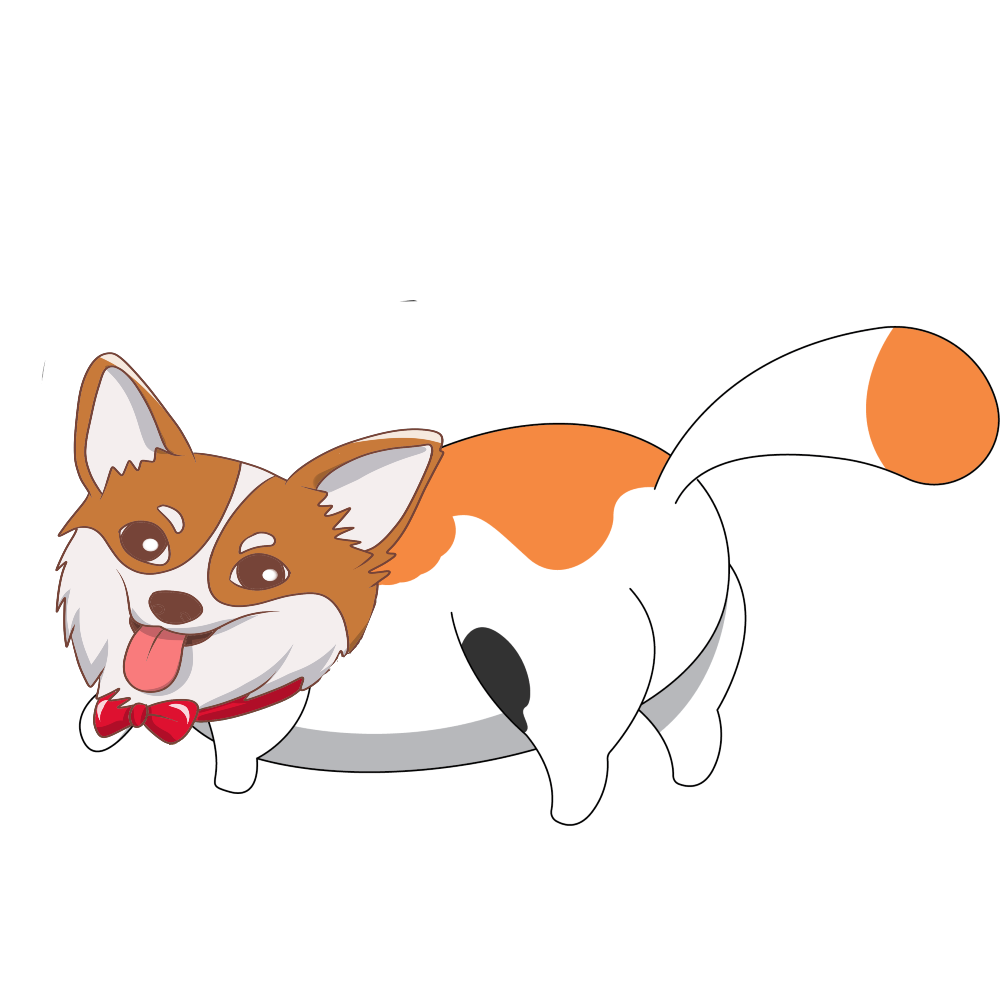
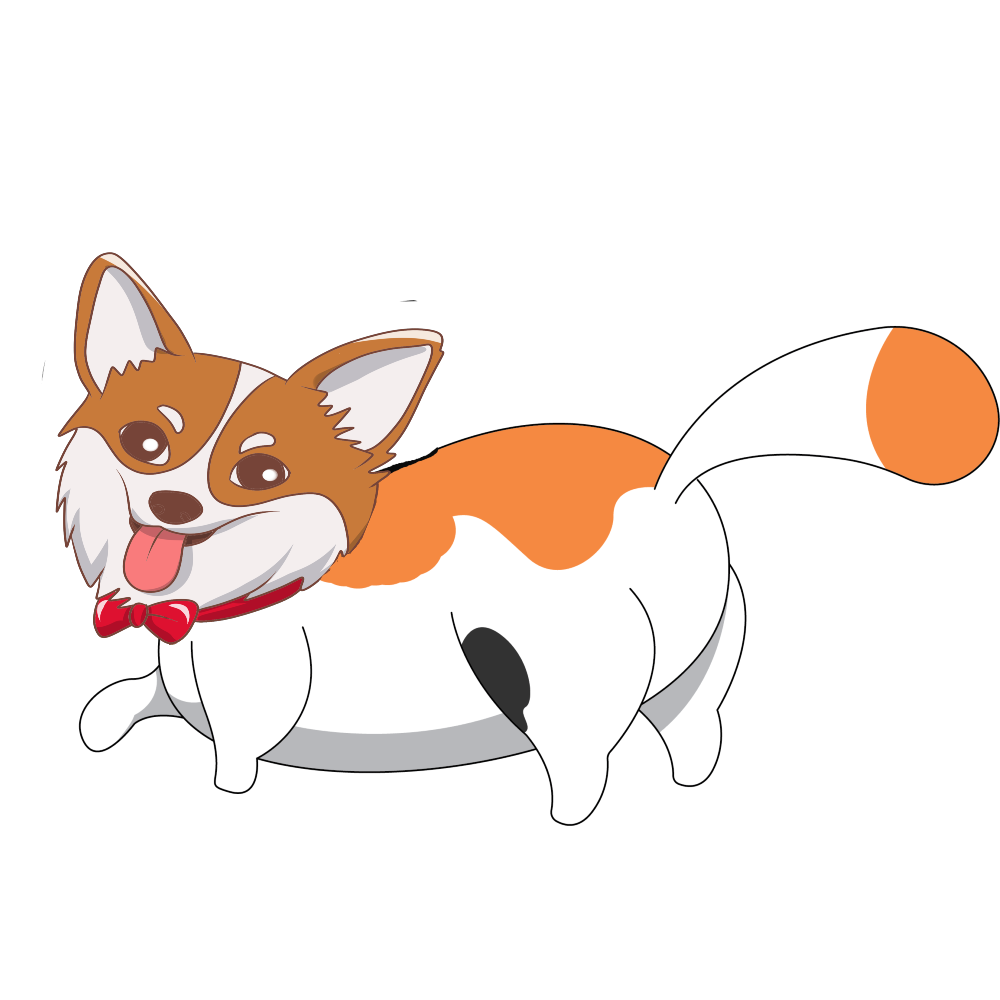
update project

Changed region(s): [[0.031, 0.248, 0.465, 0.744]]

diff --git a/data/index.php b/data/index.php
@@ -4,12 +4,17 @@ require 'vendor/autoload.php';
 
 $controller = new \App\Controllers\AnimalGeneratorController();
 $validator = new \App\Services\AnimalValidator();
+$animalModel = new \App\Models\AnimalModel();
+
 try {
+    $animalModel->getAnimals();
+    $animals = $animalModel->getAnimals();
 
     if (isset($_GET['generate']) && $_GET['generate'] === 'true') {
         $validator->validate($_GET['first_parent']);
         $validator->validate($_GET['second_parent']);
         $baby = $controller->generate($_GET['first_parent'], $_GET['second_parent']);
+        $animalModel->saveAnimal($baby);
     }
 } catch (\Exception $e) {
     $error = $e->getMessage();
@@ -36,21 +41,21 @@ try {
             height: auto;
 
         }
+
         body {
-            background-image: url("https://img.freepik.com/premium-vector/cute-baby-seamless-pattern-with-pacifiers_528213-1013.jpg?w=2000");
+
             color: steelblue;
+        }
+
+        .dop-fon {
+            background-color: lightblue;
 
         }
-        .dop-block{
-            background-color: lightblue;
-            border-style: revert;
-            border-radius: 40px;
-        }
-        .dop-fon{
-            background-color: lightblue;
-            
-        }
+
         .button {
+            float: left;
+            margin: 30px;
+            margin-left: 205px;
             display: inline-block;
             padding: 15px 25px;
             font-size: 24px;
@@ -65,13 +70,16 @@ try {
             box-shadow: 0 9px #999;
         }
 
-        .button:hover {background-color: #4CAF50}
+        .button:hover {
+            background-color: #4CAF50
+        }
 
         .button:active {
             background-color: #106ee8;
             box-shadow: 0 5px #666;
             transform: translateY(4px);
         }
+
         .error {
             width: 100px;
             height: 100px;
@@ -84,64 +92,45 @@ try {
             animation-duration: 8s;
         }
 
-        @keyframes example {
-            0% {
-                background-color: red;
-                left: 0px;
-                top: 1000px;
-            }
-            25% {
-                background-color: yellow;
-                left: 800px;
-                top: 0px;
-            }
-            50% {
-                background-color: blue;
-                left: 200px;
-                top: 200px;
-            }
-            75% {
-                background-color: green;
-                left: 0px;
-                top: 200px;
-            }
-            100% {
-                background-color: red;
-                left: 0px;
-                top: 0px;
-            }
+
         }
+
         .h1 {
-                color: white;
-                text-shadow: 1px 1px 2px black, 0 0 25px blue, 0 0 5px darkblue;
-            }
+            color: white;
+            text-shadow: 1px 1px 2px black, 0 0 25px blue, 0 0 5px darkblue;
+        }
+
         .h2 {
             color: steelblue;
             font-size: 25px;
-            text-shadow: 1px 1px , 0 0 1px blue, 0 0 ;
+            text-shadow: 1px 1px, 0 0 1px blue, 0 0;
         }
-        .h3{
+
+        .h3 {
             color: #106ee8;
             font-size: 40px;
             margin-left: auto;
             text-shadow: 1px 1px 2px black, 0 0 100px blue, 0 0 10px whitesmoke;
         }
-        select{
+
+        select {
             text-align: center;
             color: blue;
             font-size: 16px;
             cursor: pointer;
         }
+
         .baby-text {
             color: steelblue;
             font-size: 25px;
-            text-shadow: 1px 1px , 0 0 1px blue, 0 0 ;
+            text-shadow: 1px 1px, 0 0 1px blue, 0 0;
+
         .baby-name {
             color: steelblue;
             font-size: 40px;
             font-weight: bolder;
             text-decoration-style: solid;
-            text-shadow: 1px 1px , 0 0 1px blue, 0 0 ;
+            text-shadow: 1px 1px, 0 0 1px blue, 0 0;
 
     </style>
 
@@ -361,8 +350,7 @@ try {
                     </fieldset>
                 </div>
             </div>
-            <br>
-            <div class="container mt-10">
+            <div class=" col-6 px-5">
                 <?php
                 if (empty($_GET['first_parent']['animal']) || empty($_GET['second_parent']['animal'])) {
                     echo '<button type="submit" class="btn btn-primary btn-lg button" style="width:700px;" name="continue" value="true">Continue</button>';
@@ -371,41 +359,45 @@ try {
                 } ?>
             </div>
         </form>
-        <br>
         <?php if (isset($error)) {
             echo "<div class='container '  ><span class='badge  fs-4 error' style='width:700px; height: 60px' >{$error}</span> </div> ";
         }
 
         ?>
     </div>
+    <div class="col-4  text-center mt-2 dop-block">
 
-    <div class="col-4 text-center mt-2">
-    </div>
-    <div class="col-4 text-center mt-2 dop-block">
-
-        <!--        --><?php //if (\App\Entities\Animal::) {
-        //            echo "<div class='container'  ><span class='badge bg-danger fs-3' style='width:700px; height: 60px' >{}</span> </div> ";
-        //        }
-        //
-        //        ?>
-
-      <?php  if(isset($baby)) {
-          echo '<div class="row g-0  flex-md-row mb-4  position-relative">
+        <?php if (isset($baby)) {
+            echo '<div class="row g-0  flex-md-row">
             <div class="col p-4 d-flex flex-column position-static">
                 <strong class="d-inline-block mb-2 text-success"><h1 class="h3">Baby</h1></strong>
                 
-                <h1 class="baby-name" >'.ucfirst($baby->getName())  . '</h1>
+                <h1 class="baby-name" >' . ucfirst($baby->getName()) . '</h1>
 
-               <br> <p class="mb-auto baby-text">'. $baby->getSex() . ' <br> '. $baby->getType() .'<br> '. $baby->getColor() . ' <br> '. $baby->getSize() .' <br> '. $baby->getPlace() .'</p>
+               <br> <p class="mb-auto baby-text">' . $baby->getSex() . ' <br> ' . $baby->getType() . '<br> ' . $baby->getColor() . ' <br> ' . $baby->getSize() . ' <br> ' . $baby->getPlace() . '</p>
                 
             </div>
             <div class="col-auto d-none d-lg-block">
-                <img src=" '. $baby->getBabyImage() .' " class=" " >
+                <img src=" ' . $baby->getBabyImage() . ' " class=" " >
 
             </div>
         </div>';
-      }
-       ?>
+        }
+        ?>
+
+    </div>
+    <div class="col-6  text-center mt-2 ">
+
+        <h1 class="baby-name">Last 10 animals</h1>
+        <?php
+        foreach ($animals as $animal) {
+            echo "<div class='row g-0  flex-md-row '>
+                <div class='col-12 p-4 d-flex flex-column position-static'>
+                    <strong class='d-inline-block mb-2 text-success'>{$animal['name']}, {$animal['sex']},{$animal['size']},{$animal['type']}, {$animal['color']}, {$animal['place']}, </strong>
+                    <img src='{$animal['image_path']}'>
+                </div>";
+        }
+        ?>
 
     </div>
 </div>

diff --git a/data/Models/AnimalModel.php b/data/Models/AnimalModel.php
@@ -1,0 +1,34 @@
+<?php
+
+namespace App\Models;
+
+use App\Entities\Animal;
+use mysqli;
+
+class AnimalModel
+{
+    private $connection;
+
+    public function __construct()
+    {
+        mysqli_report(MYSQLI_REPORT_ERROR | MYSQLI_REPORT_STRICT);
+        $this->connection = new mysqli('172.19.0.2', 'root', 'root', 'animal_generator');
+    }
+
+    public function getAnimals()
+    {
+        return $this->connection->query("
+            SELECT * FROM animals ORDER BY created_at DESC LIMIT 10
+        ");
+    }
+
+    public function saveAnimal(Animal $animal)
+    {
+        $this->connection->query("
+            INSERT INTO animals (`name`, `sex`, `type`, `color`, `place`, `size`, `image_path`, `created_at`) 
+            VALUES ('{$animal->getName()}','{$animal->getSex()}', '{$animal->getType()}', '{$animal->getColor()}', '{$animal->getPlace()}', '{$animal->getSize()}', '{$animal->getBabyImage()}', now())
+        ");
+    }
+
+
+}

diff --git a/data/Services/ImageGenerator.php b/data/Services/ImageGenerator.php
@@ -17,7 +17,7 @@ class ImageGenerator
         Image::load($bodyPath)
             ->watermark($headPath)
             ->watermarkPosition(Manipulations::POSITION_BOTTOM_LEFT)
-            ->watermarkPadding(5, 25, Manipulations::UNIT_PERCENT)
+            ->watermarkPadding(5, 35, Manipulations::UNIT_PERCENT)
             ->save($babyImagePath);
     }
 }
